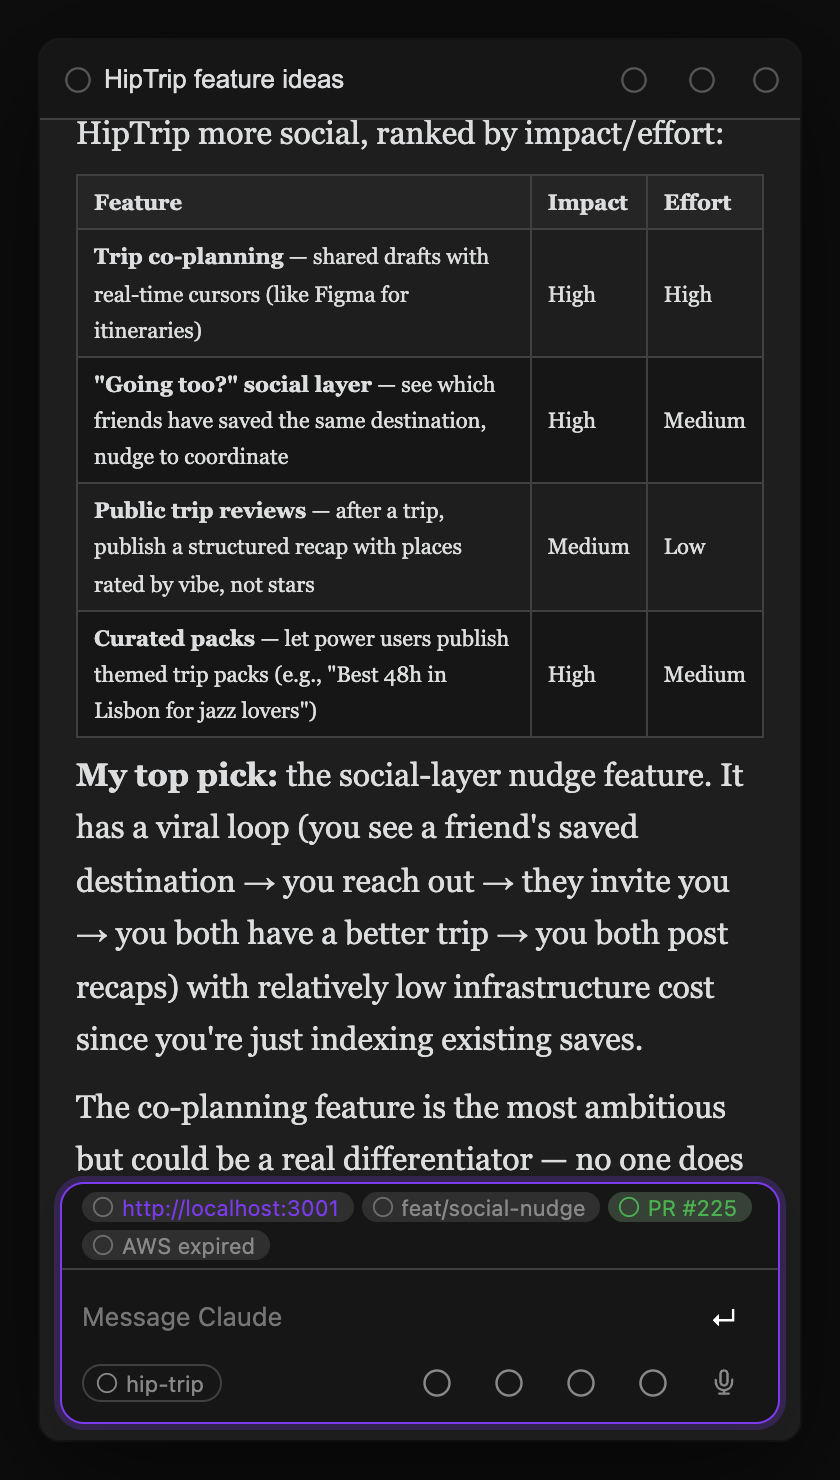
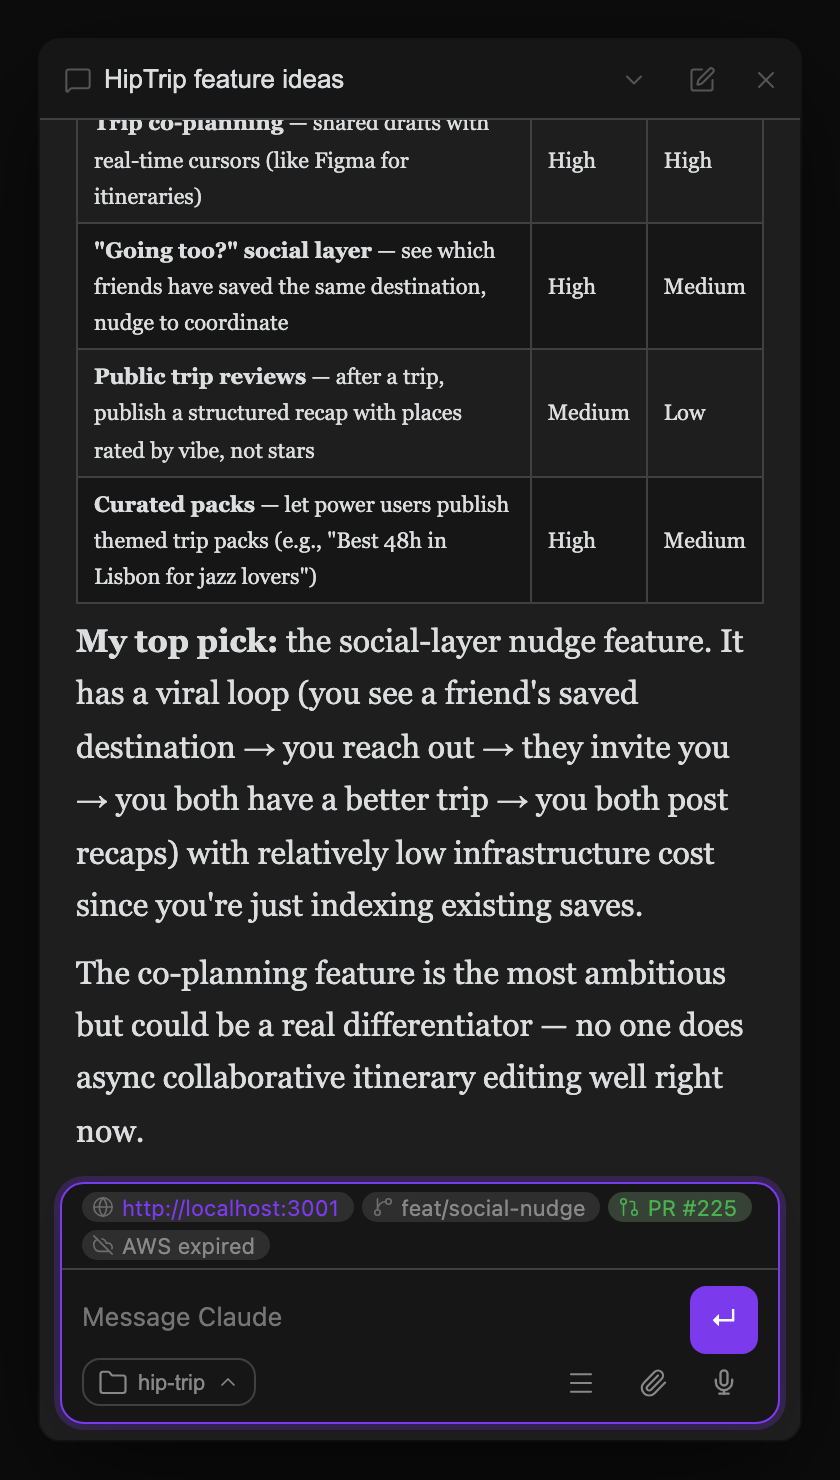
Document Google Workspace MCP setup (#84)
* docs: explain Google Workspace MCP connection setup

* docs: explain connection compatibility and refresh rotation

* docs: refresh MCP screenshots and explain restart behavior

* docs: specify Workspace beta release prerequisites

* docs: sync stable status-line screenshot for release

diff --git a/src/content/docs/integrations/mcp-servers.md b/src/content/docs/integrations/mcp-servers.md
@@ -27,7 +27,72 @@ Open **Settings → Claude Threads** and select the **MCP** tab. On mobile, the 
 
 Changes take effect for **new threads only** — sessions already running keep whatever MCP servers they started with.
 
-## The server list
+## Google Workspace
+
+Available in **Claude Threads v0.35.0** as an opt-in beta, with **Google Docs Sync
+v0.7.1 or later**. Live four-service validation across both harnesses remains
+pending; test with non-sensitive content before using it for important work.
+
+The **Google Workspace** section connects Google's hosted MCP servers using the
+Google account already connected in the **Google Docs Sync** plugin in the same
+vault. Enable **Google Docs**, **Google Drive**, **Google Sheets**, and
+**Google Slides** individually. All four start disabled.
+
+Each enabled service exposes Google's available tools, including read and write
+operations, to new Claude and Codex threads. The existing harness permission mode
+controls tool approvals. Scheduled threads use the same selected services. You do
+not need to enter server URLs, copy access tokens, or maintain Google tool schemas.
+
+### Connect your account
+
+1. Install and enable Google Docs Sync **v0.7.1 or later**, which includes guarded
+   connection-refresh support, in the same desktop host and vault. Older releases
+   show an update message in the Google Workspace section. Connect the intended
+   Google account in that plugin's settings.
+2. If your organization hosts its own auth service, use Google Docs Sync's
+   **Auth proxy URL** setting. Disconnect the old account before changing hosts,
+   then reconnect. Use current versions of the plugin and auth service with
+   Geode-aware callbacks and the scopes below.
+3. Enable the desired services under **Settings → Claude Threads → MCP →
+   Google Workspace**, then start a new thread.
+
+Google credentials are refreshed through the existing connection as requests are
+made. If the connection is unavailable, the settings section provides connection
+guidance. After switching accounts or auth hosts, start a new thread so an
+existing conversation does not silently gain access to a different account. The
+thread's account binding is retained across app restarts.
+Normal access-token refresh is automatic. If Google rotates the refresh token,
+start a new thread. Disabling a service revokes existing Google connections;
+re-enabling it requires a new thread.
+
+### Google Cloud prerequisites
+
+Google's Workspace MCP servers are currently in Developer Preview. Confirm both
+your Workspace developer-account approval and registration of the specific Google
+Cloud project backing the OAuth client. Then enable the ordinary API and MCP API
+for each service:
+
+| Service | APIs to enable | OAuth scopes requested by the auth service |
+|---|---|---|
+| Drive | `drive.googleapis.com`, `drivemcp.googleapis.com` | `drive.readonly`, `drive.file` |
+| Docs | `docs.googleapis.com`, `docsmcp.googleapis.com` | Drive scopes plus `documents.readonly`, `documents` |
+| Sheets | `sheets.googleapis.com`, `sheetsmcp.googleapis.com` | Drive scopes plus `spreadsheets.readonly`, `spreadsheets` |
+| Slides | `slides.googleapis.com`, `slidesmcp.googleapis.com` | Drive scopes plus `presentations.readonly`, `presentations` |
+
+Scope names in the table have the prefix `https://www.googleapis.com/auth/`.
+Include the explicit read-only scopes even when requesting their write-capable
+counterparts. After the auth service adds scopes, reconnect the account to grant
+them; refreshing an old token does not add permissions.
+
+See Google's [setup guide](https://developers.google.com/workspace/guides/configure-mcp-servers)
+and [Developer Preview Program](https://developers.google.com/workspace/preview).
+Immediately after project registration, preview errors may persist or alternate
+with successful calls while Google's checks propagate. Once registration and API
+enablement are confirmed, retry over several minutes before changing configuration.
+Successful initialization or tool discovery alone does not prove tool execution
+is authorized; test a read against a non-sensitive file in each selected service.
+
+## The external server list
 
 Each configured server is shown as a row with:
 

diff --git a/src/content/docs/reference/settings.md b/src/content/docs/reference/settings.md
@@ -150,6 +150,12 @@ Register local skill collections — GitHub repos or local folders — to browse
 
 Add, edit, and remove the external MCP servers (stdio, HTTP, or SSE) that get merged into every new thread on both the Claude and Codex harnesses — no hand-editing JSON required for the common case. Servers are stored in **this plugin's own `data.json`**, scoped to this vault — not in `~/.claude/settings.json` and not shared with the `claude` CLI. See [Managing MCP Servers](/docs/integrations/mcp-servers/) for the full walkthrough, including the add/edit form, `${VAR_NAME}` placeholders, and what happens when a placeholder can't be resolved (the server is skipped, with a warning, rather than starting with a blank credential).
 
+The MCP tab also has a **Google Workspace** section with opt-in **Google Docs**,
+**Google Drive**, **Google Sheets**, and **Google Slides** toggles. It uses the
+Google Docs Sync account connected in the same vault and exposes Google's hosted
+tools to new threads on either harness. See [Google Workspace setup](/docs/integrations/mcp-servers/#google-workspace)
+for connection, OAuth scopes, and preview-enrollment prerequisites.
+
 ## Mobile settings
 
 Obsidian Mobile shows a reduced settings screen instead of the eight tabs above:
